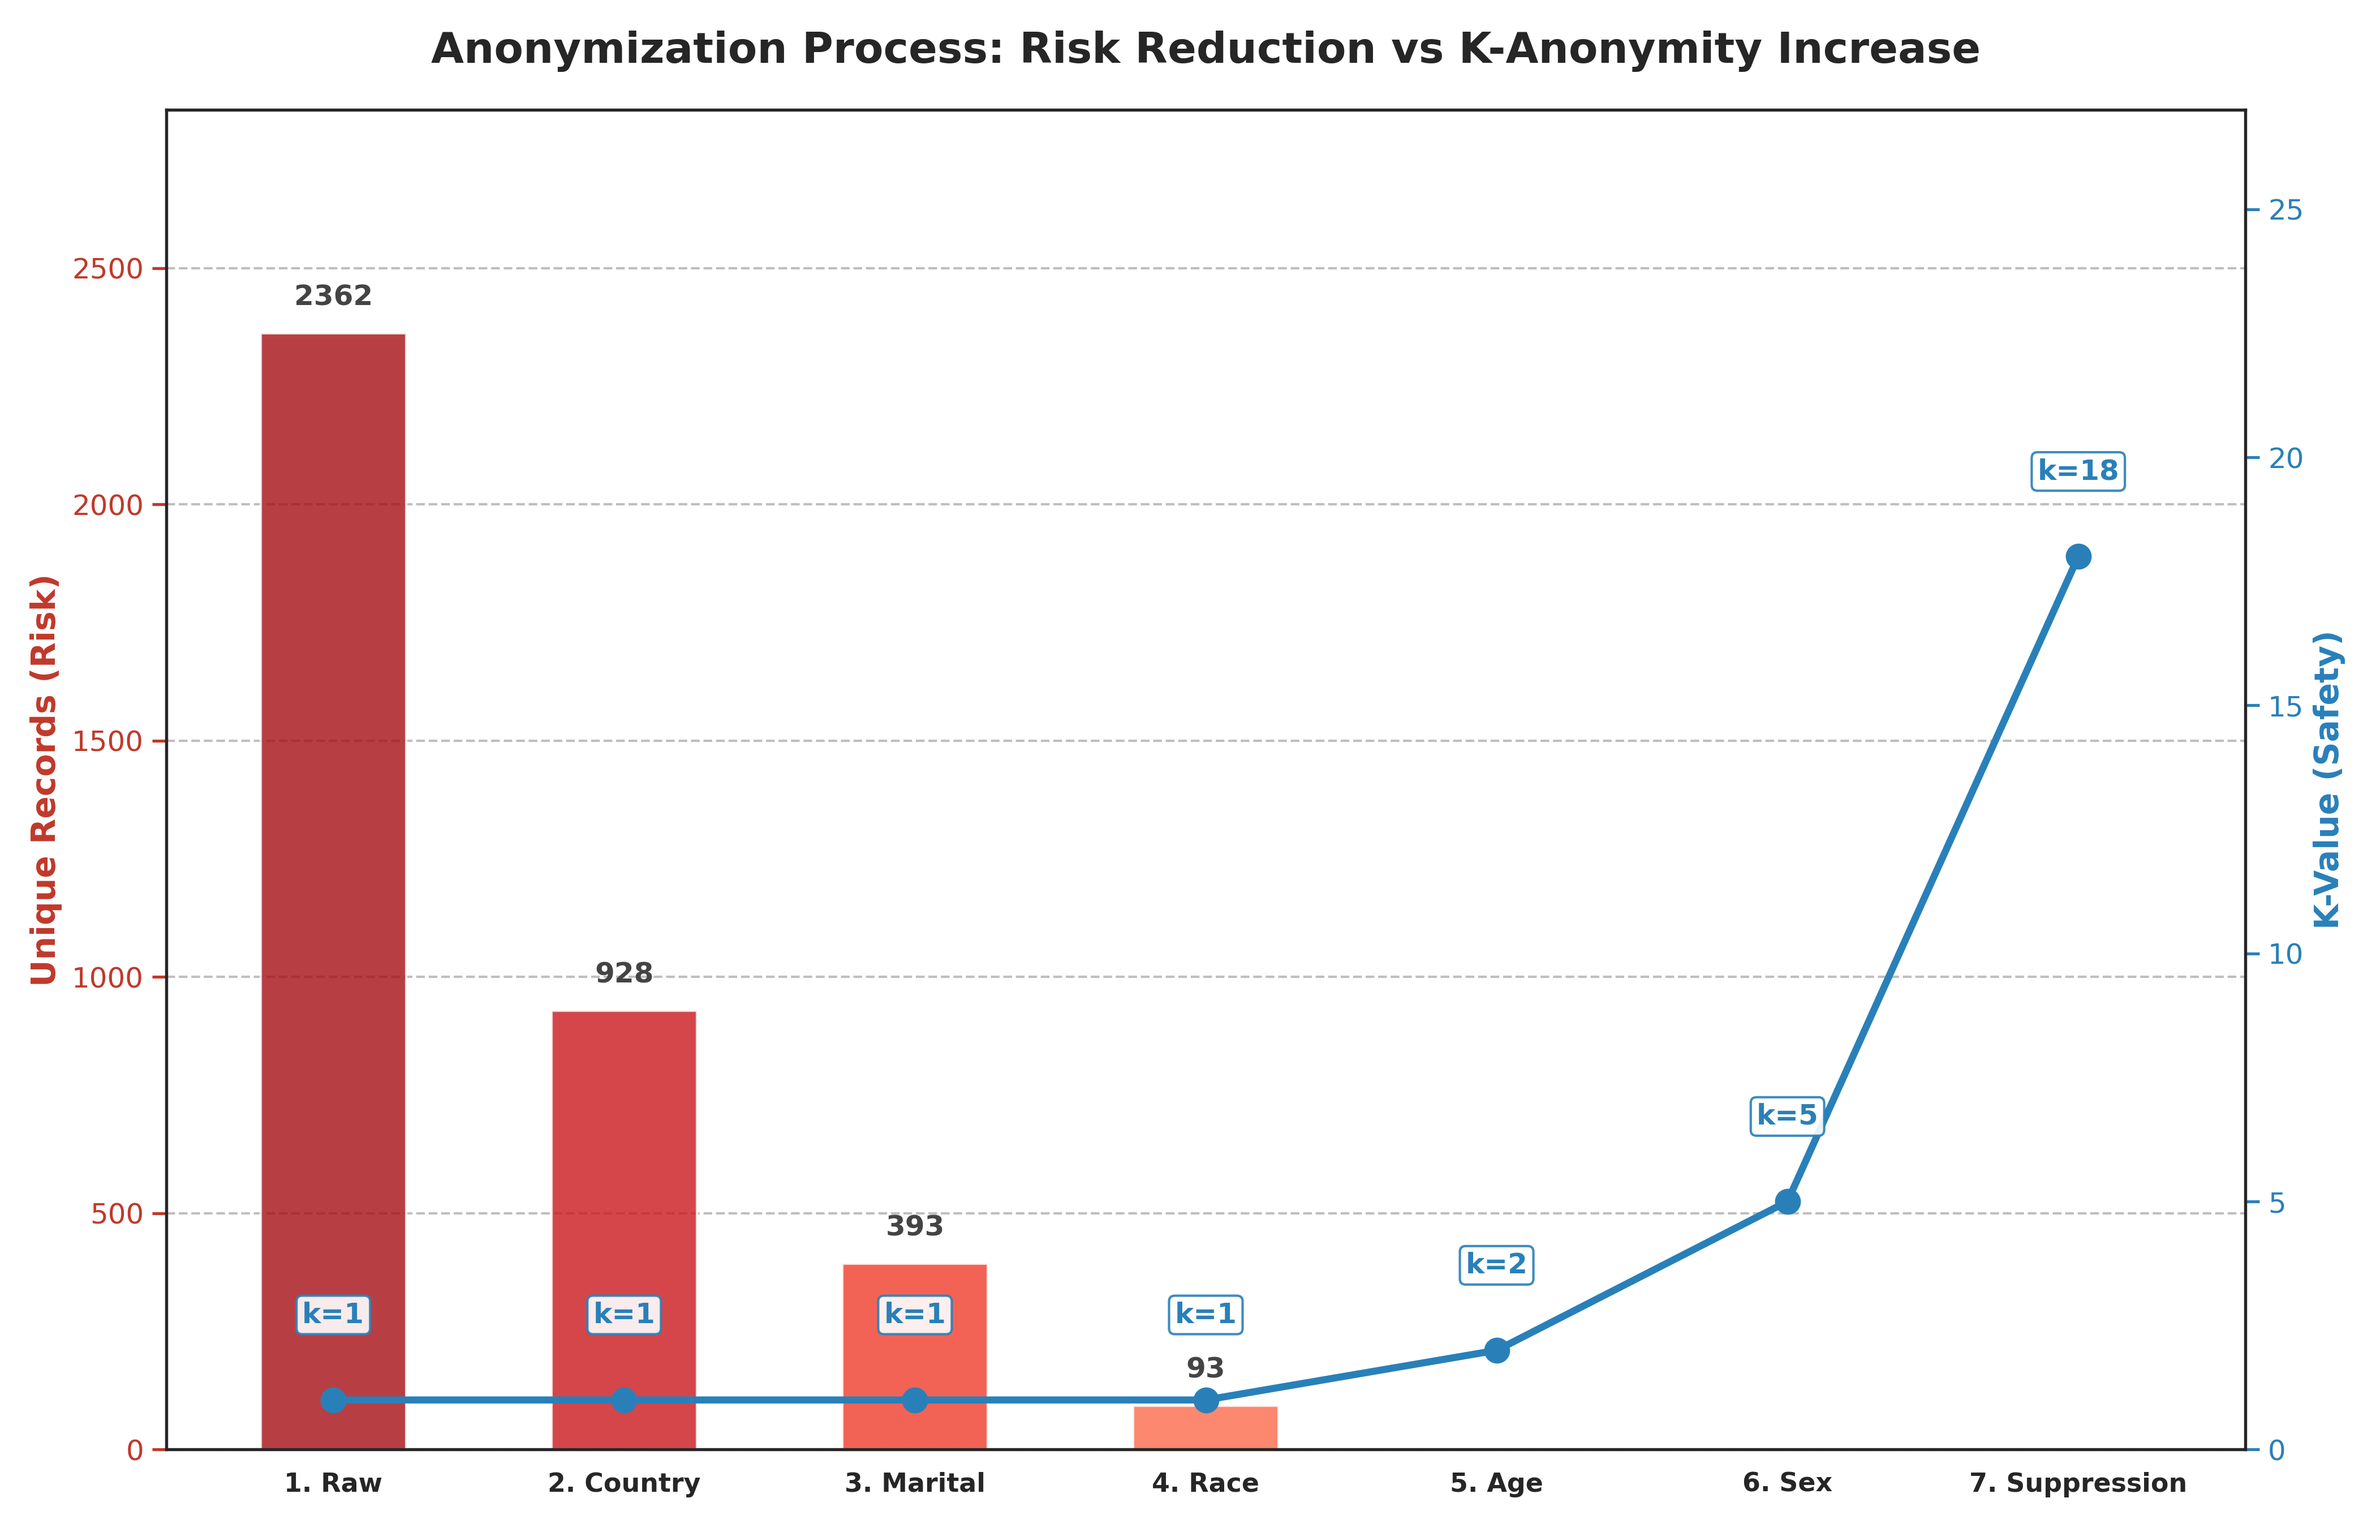
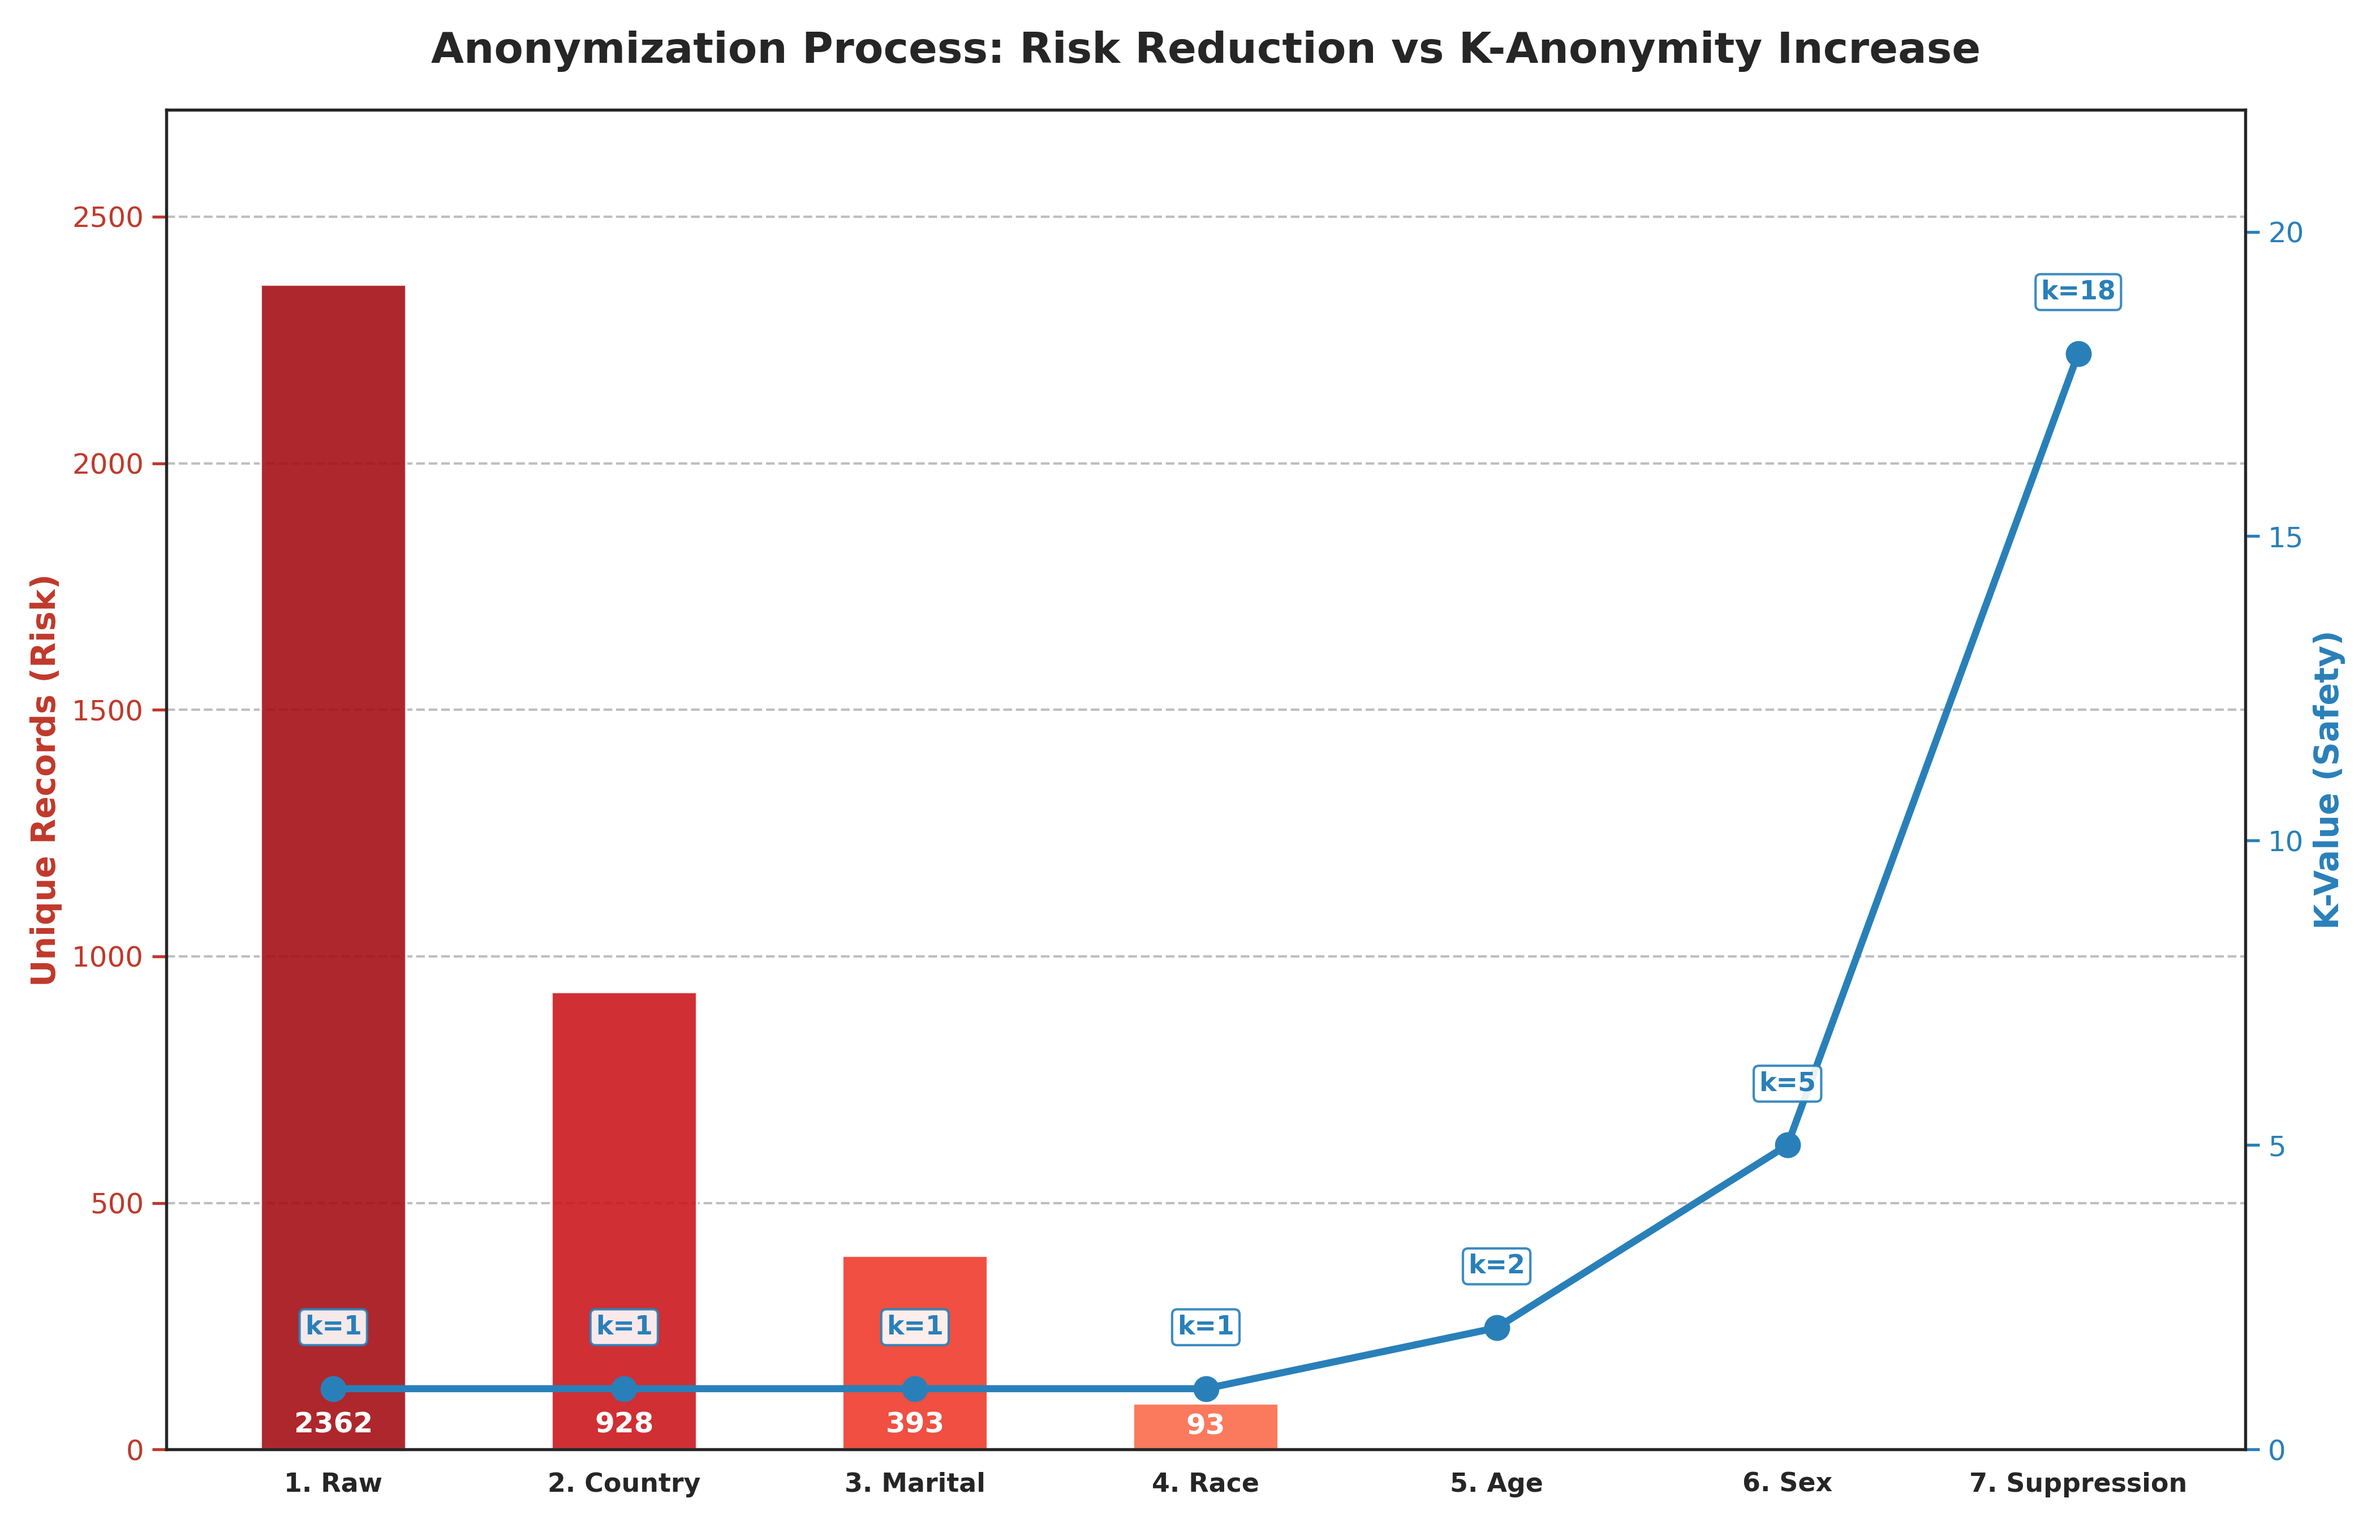
Feat: added t-closeness visualization and minor fixes

diff --git a/src/visualise_t_closeness.py b/src/visualise_t_closeness.py
@@ -1,0 +1,134 @@
+import pandas as pd
+import seaborn as sns
+import matplotlib.pyplot as plt
+import numpy as np
+import os
+import sys
+
+# --- SETUP PATHS ---
+current_dir = os.path.dirname(os.path.abspath(__file__))
+sys.path.append(current_dir)
+
+try:
+    from risk_analyser import QUASI_IDENTIFIERS, COLUMNS
+except ImportError:
+    sys.exit("❌ Error: risk_analyser.py not found.")
+
+# --- CONFIGURATION ---
+INPUT_PATH = os.path.join(current_dir, "../data/adult_anonymized.csv")
+OUTPUT_CHART_PATH = os.path.join(current_dir, "../data/t_closeness_analysis.png")
+SENSITIVE_ATTR = "income"
+THRESHOLDS_TO_TEST = [0.15, 0.20, 0.25, 0.30]
+
+def calculate_t_values(df, sensitive_col):
+    global_dist = df[sensitive_col].value_counts(normalize=True).sort_index()
+    groups = df.groupby(QUASI_IDENTIFIERS)
+    
+    t_list = []
+    group_sizes = []
+    worst_t = -1
+
+    for name, group in groups:
+        local_dist = group[sensitive_col].value_counts(normalize=True)
+        local_dist = local_dist.reindex(global_dist.index, fill_value=0.0)
+        
+        # Variational Distance Formula
+        t = 0.5 * np.sum(np.abs(local_dist - global_dist))
+        
+        t_list.append(t)
+        group_sizes.append(len(group))
+        if t > worst_t: worst_t = t
+
+    return t_list, group_sizes, global_dist, worst_t
+
+if __name__ == "__main__":
+    print("\n🚀 --- T-CLOSENESS VISUALIZER & AUDITOR ---")
+
+    # 1. LOAD DATA
+    if not os.path.exists(INPUT_PATH):
+        sys.exit(f"❌ Error: {INPUT_PATH} not found.")
+    
+    df = pd.read_csv(INPUT_PATH, names=COLUMNS, skipinitialspace=True)
+    total_rows = len(df)
+    
+    # 2. CALCULATE METRICS
+    print("⚙  Calculating t-closeness for all groups...")
+    t_values, sizes, glob_d, max_t = calculate_t_values(df, SENSITIVE_ATTR)
+    avg_t = np.mean(t_values)
+    
+    print(f"\n📊 CURRENT STATUS:")
+    print(f"   Max t-value: {max_t:.4f} (Worst Case)")
+    print(f"   Avg t-value: {avg_t:.4f}")
+
+    # 3. VISUALIZATION
+    print(f"🎨 Generating distribution chart...")
+    
+    sns.set_theme(style="white") 
+    fig, ax = plt.subplots(figsize=(12, 7))
+    
+    plot_df = pd.DataFrame({'t-value': t_values})
+
+    # Main Histogram
+    sns.histplot(
+        data=plot_df, 
+        x='t-value', 
+        bins=30, 
+        kde=True, 
+        color='#3498db',       
+        edgecolor=None,        
+        alpha=0.85,            
+        line_kws={'linewidth': 2},
+        zorder=3
+    )
+
+    # Max Risk Line
+    plt.axvline(max_t, color='#c0392b', linestyle='--', linewidth=2.5, zorder=4,
+                label=f'Worst Group Risk (t={max_t:.3f})')
+    
+    # Risk Zones
+    plt.axvspan(0, 0.2, color='#27ae60', alpha=0.3, zorder=1, label='Safe Zone (t < 0.2)')
+    plt.axvspan(0.2, 0.3, color='#f1c40f', alpha=0.3, zorder=1, label='Moderate Risk (0.2-0.3)')
+    plt.axvspan(0.3, 1.0, color='#e74c3c', alpha=0.1, zorder=0, label='High Risk (t > 0.3)')
+
+    # Labels
+    plt.title(f'T-Closeness Audit: Risk Distribution', fontsize=16, fontweight='bold', pad=20)
+    plt.xlabel('t-value (Divergence Level)', fontsize=12, fontweight='bold')
+    plt.ylabel('Frequency (Number of Groups)', fontsize=12, fontweight='bold')
+    plt.xlim(0, max(0.4, max_t + 0.1))
+    
+    # FULL BLACK BORDER (BOX STYLE)
+    for spine in ['top', 'bottom', 'left', 'right']:
+        ax.spines[spine].set_visible(True)
+        ax.spines[spine].set_color('black')
+        ax.spines[spine].set_linewidth(1.2)
+
+    plt.legend(loc='upper right', frameon=True, framealpha=0.9, shadow=True, edgecolor='black')
+    
+    plt.tight_layout()
+    plt.savefig(OUTPUT_CHART_PATH, dpi=300)
+    print(f"✅ Chart saved to: {OUTPUT_CHART_PATH}")
+
+    # 4. FEASIBILITY CHECK
+    print("\n⚖  FEASIBILITY CHECK (Can we tighten privacy?)")
+    print(f"{'Target t':<10} | {'Violating Groups':<18} | {'Rows to Drop':<12} | {'Data Loss %':<12} | {'Verdict'}")
+    print("-" * 75)
+
+    df_check = pd.DataFrame({'t': t_values, 'size': sizes})
+    recommendation = "Maintain current state."
+
+    for threshold in THRESHOLDS_TO_TEST:
+        violators = df_check[df_check['t'] > threshold]
+        rows_lost = violators['size'].sum()
+        loss_pct = (rows_lost / total_rows) * 100
+        
+        if loss_pct == 0: verdict = "✅ Already Met"
+        elif loss_pct < 5: 
+            verdict = "🟢 Easy"
+            recommendation = f"Tighten to t <= {threshold}"
+        elif loss_pct < 15: verdict = "🟡 Feasible"
+        else: verdict = "❌ Too Costly"
+
+        print(f"t <= {threshold:<5} | {len(violators):<18} | {rows_lost:<12} | {loss_pct:6.2f}%      | {verdict}")
+
+    print("-" * 75)
+    print(f"💡 FINAL RECOMMENDATION: {recommendation}")

diff --git a/src/visualise_k_anonimity.py b/src/visualise_k_anonimity.py
@@ -4,10 +4,14 @@ import seaborn as sns
 import os
 import sys
 
+# Setup path
 current_dir = os.path.dirname(os.path.abspath(__file__))
 sys.path.append(current_dir)
 
-from risk_analyser import load_data, analyze_k_anonymity, QUASI_IDENTIFIERS
+try:
+    from risk_analyser import load_data, analyze_k_anonymity, QUASI_IDENTIFIERS
+except ImportError:
+    sys.exit("Error: risk_analyser.py not found.")
 
 # --- TRANSFORMATION LOGIC ---
 def age_strong(age):
@@ -31,7 +35,7 @@ if __name__ == "__main__":
 
     # --- PHASE 1: GENERALIZATION STEPS ---
     steps_config = [
-        ("1. Raw", None, None), # Shortened labels for better fit
+        ("1. Raw", None, None), 
         ("2. Country", 'native-country', lambda x: "US" if x.strip() == "United-States" else "Non-US"),
         ("3. Marital", 'marital-status', lambda x: "Married" if x.strip().startswith("Married") else "Single"),
         ("4. Race", 'race', lambda x: "White" if x.strip() == "White" else "Other"),
@@ -65,24 +69,27 @@ if __name__ == "__main__":
     values_k = [x['k'] for x in history]
 
     sns.set_theme(style="white")
-    fig, ax1 = plt.subplots(figsize=(14, 9)) # Increased height
+    fig, ax1 = plt.subplots(figsize=(14, 9))
     ax1.grid(axis='y', linestyle='--', alpha=0.5, color='gray', zorder=0)
 
     # --- AXIS 1: RISK (Red Bars) ---
     palette = sns.color_palette("Reds_r", n_colors=len(steps))
-    bars = ax1.bar(steps, values_uniques, color=palette, alpha=0.8, zorder=2, width=0.5)
+    bars = ax1.bar(steps, values_uniques, color=palette, alpha=0.9, zorder=2, width=0.5)
     
     ax1.set_ylabel('Unique Records (Risk)', fontsize=14, fontweight='bold', color='#c0392b')
     ax1.tick_params(axis='y', labelsize=12, colors='#c0392b')
-    # Give plenty of headroom for the text
-    ax1.set_ylim(0, max(values_uniques) * 1.2)
+    ax1.set_ylim(0, max(values_uniques) * 1.15)
 
-    # Label Bars (Placed slightly above the bar)
+    # --- WHITE LABELS INSIDE BARS (BOTTOM) ---
     for bar in bars:
         height = bar.get_height()
         if height > 0:
-            ax1.text(bar.get_x() + bar.get_width()/2., height + (max(values_uniques)*0.02),
-                    f'{int(height)}', ha='center', va='bottom', fontsize=12, fontweight='bold', color='#444444')
+            label_y = 50 if height > 100 else height / 2
+            
+            ax1.text(bar.get_x() + bar.get_width()/2., label_y, 
+                     f'{int(height)}', 
+                     ha='center', va='center', 
+                     fontsize=12, fontweight='bold', color='white', zorder=4)
 
     # --- AXIS 2: SAFETY (Blue Line) ---
     ax2 = ax1.twinx()
@@ -90,25 +97,23 @@ if __name__ == "__main__":
     
     ax2.set_ylabel('K-Value (Safety)', fontsize=14, fontweight='bold', color='#2980b9')
     ax2.tick_params(axis='y', labelsize=12, colors='#2980b9')
-    # Massive headroom for the K labels so they don't touch the bars
-    ax2.set_ylim(0, max(values_k) * 1.5) 
+    ax2.set_ylim(0, 22)
+    ax2.set_yticks([0, 5, 10, 15, 20])
 
-    # Label Line points (Placed WAY above the point)
+    # --- BLUE LABELS (STANDARD POSITION) ---
     for i, v in enumerate(values_k):
-        # Offset calculation to push label up
-        offset = max(values_k) * 0.08 
-        ax2.text(i, v + offset, f'k={v}', 
-                 ha='center', va='bottom', fontsize=12, fontweight='bold', color='#2980b9', 
+        ax2.text(i, v + 0.8, f'k={v}', 
+                 ha='center', va='bottom', fontsize=11, fontweight='bold', color='#2980b9', 
                  bbox=dict(facecolor='white', edgecolor='#2980b9', boxstyle='round,pad=0.2', alpha=0.9))
 
     # Titles and Layout
     plt.title('Anonymization Process: Risk Reduction vs K-Anonymity Increase', fontsize=18, fontweight='bold', pad=20)
     
-    # NO ROTATION for X labels
-    ax1.set_xticklabels(steps, fontsize=11, fontweight='bold') 
+    ax1.set_xticks(range(len(steps)))
+    ax1.set_xticklabels(steps, fontsize=11, fontweight='bold')
     
     plt.tight_layout()
     
     out_path = os.path.join(current_dir, "../data/k_anonimity_chart.png")
     plt.savefig(out_path, dpi=300)
-    print(f"✅ Chart saved to: {out_path}")
+    print(f"Chart saved to: {out_path}")

diff --git a/src/visualise_l_diversity.py b/src/visualise_l_diversity.py
@@ -98,8 +98,10 @@ if __name__ == "__main__":
         if val == 1: new_labels.append("l=1\n(Critical Risk)")
         elif val == 2: new_labels.append(f"l={val}\n(Min Safe)")
         else: new_labels.append(f"l={val}")
-            
+    
+    ax.set_xticks(ax.get_xticks())
     ax.set_xticklabels(new_labels, fontsize=11, fontweight='bold')
+    
     ax.set_title("L-Diversity Analysis: Risk Elimination", fontsize=16, fontweight='bold', pad=15)
     ax.set_xlabel("")
     ax.set_ylabel("Number of Groups", fontsize=12, fontweight='bold')
